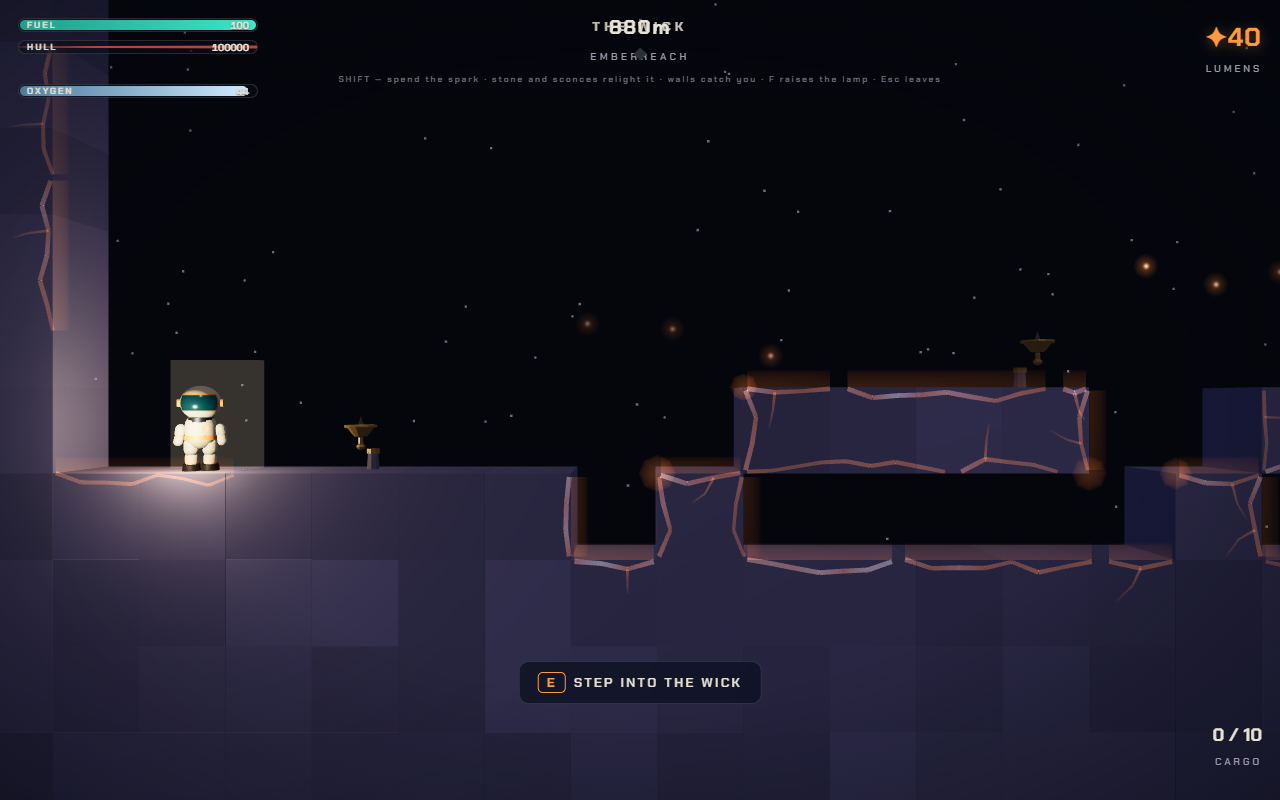
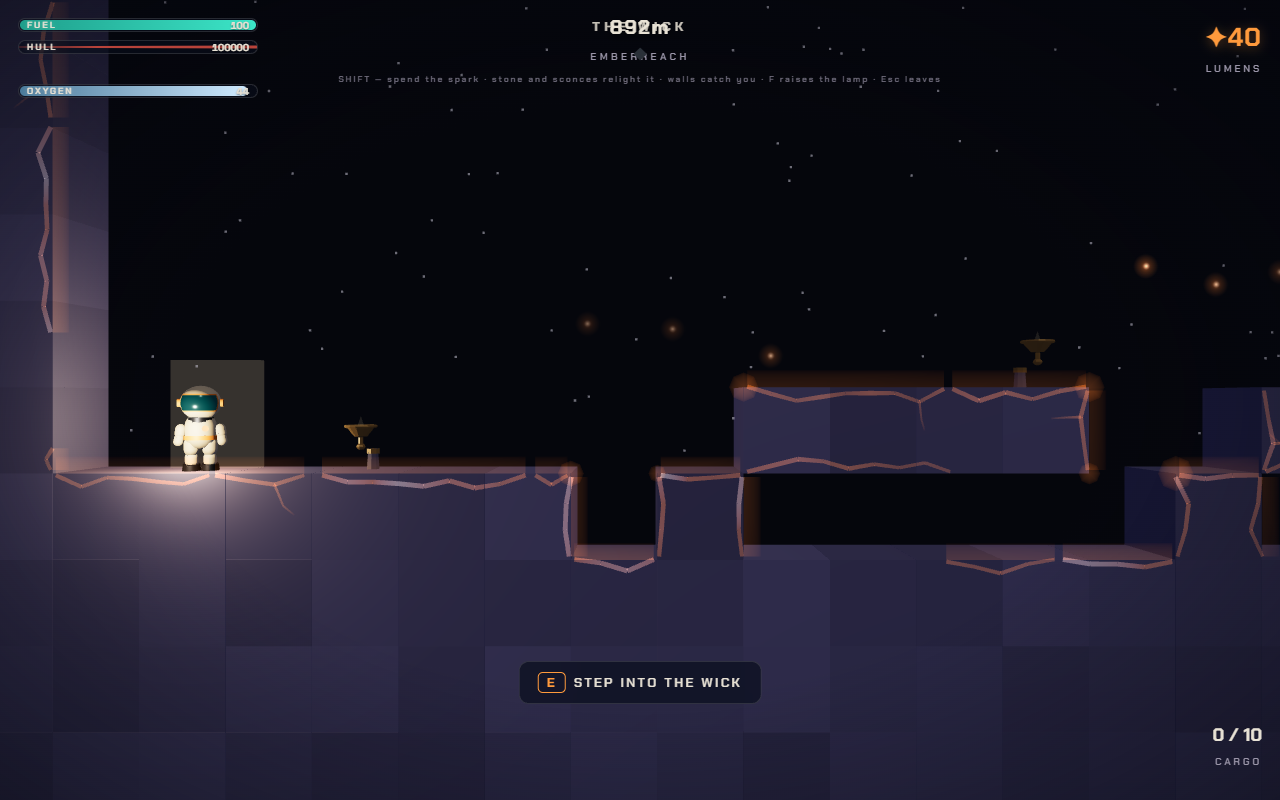
The teaching gap is forced, and the harness proves it
Adds the spark-disabled solve as an automatic gate: every graded room is
solved a second time with the scarce verb removed, and fails if the stone is
still reachable. For a tutorial this is the whole test — a room whose subject
is the spark must not be completable without it.

It immediately caught the rebuild committing the original's sin, three times
over. The recovery floor ran the length of the hall, so you could walk from
the entry to the chimney along the bottom and never cross the teaching gap. A
recovery step sat inside the gap's own span, which turned the basin into a
staircase up the far side. And after both were fixed the pit was still
climbable, because wall-jumps here are free and unlimited and any pit with a
wall beside it can be left on the wrong side.

The far lip is a cantilever now. Its supporting rock sits four columns back,
so the space under its left end has no face to kick off, and the lip caps
anyone who climbs at the support. With the spark disabled the lip, the drank
islands, the chimney, the reveal and the stone are all unreachable.

I would not have found any of the three by reading the map. The room looked
right and the harness was green before this check existed.

diff --git a/src/world/vaults.ts b/src/world/vaults.ts
@@ -280,10 +280,10 @@ export const VAULTS: VaultDef[] = [
       '#................................o.............#########',
       '#.............................ooo...===.ooo....#########',
       '#..................oooo....ooo..S#######...ooo.#########',
-      '#............ooo.......####..............##....#########',
-      '#......ooo..S...###............................#########',
-      '#.@.S....####..#.....#.....#....#....#.........#########',
-      '#######.#.....#.....#.....#....#....#..........#########',
+      '#............ooo.......####..........######....#########',
+      '#......ooo..S...###..................####......#########',
+      '#.@.S....####..#.....#.....#.........####......#########',
+      '#######.#.....#.....#.....#..........####......#########',
       '########################################################',
       '########################################################',
       '########################################################',

diff --git a/scripts/author-wick.py b/scripts/author-wick.py
@@ -57,9 +57,29 @@ carve(41, 3, 54, 10)        # the reveal, overlapping the chimney's top at
 # you walk to a step, you climb back. Uniform recovery is what lets the gaps
 # above it be honest.
 floor(30, 1, 46)
-for _sx in (8, 14, 20, 26, 31, 36):       # steps back up every few tiles, so
+# ...and every step is on the NEAR side of the teaching gap. A step at col 31
+# sits inside the gap's own span, which turns the recovery floor into a
+# staircase up the far side: the harness proved the far lip reachable with the
+# spark disabled, which is the whole lesson bypassed.
+for _sx in (8, 14, 20, 26):               # steps back up every few tiles, so
     floor(29, _sx, _sx)                   # a fall costs three tiles of walking
     floor(28, _sx + 1, _sx + 1)           # and not fifteen
+
+# THE BASIN MUST DEAD-END. A recovery floor that runs the length of the hall is
+# not a recovery, it is a bypass: the first cut of this room could be walked
+# from the entry to the chimney along the bottom without ever crossing the
+# teaching gap, which made the spark optional in the room whose subject is the
+# spark — the exact fault the rebuild exists to correct. The far lip's support
+# is solid to the floor, so a fall traps you and the only way out is back up
+# the steps to try the gap again.
+# The far lip is a CANTILEVER: its supporting rock sits at cols 37-40, so the
+# four columns under its left end are open air. Wall-jumps are free and
+# unlimited in this game, which means any pit with a wall beside it can be
+# climbed — the harness proved exactly that, twice. A climber in the basin can
+# only find a face at col 37, and the lip itself caps them at row 25. The only
+# way ONTO the lip is across the gap, which is the point of the gap.
+for _by in range(26, 30):
+    floor(_by, 37, 40)
 
 # ===========================================================================
 # CHAMBER A · cols 1-13 · INTRODUCE

diff --git a/docs/wick-slice.md b/docs/wick-slice.md
@@ -112,13 +112,39 @@ Every beat on the golden path, with its margin:
 | (41,11)→(51,8) | 9 | 1.65× | spark | 21f |
 
 **Read this carefully — it is not the intended line.** The harness's BFS
-minimises *beats*, so it finds the route that skips the most platforms, which
-is the spark-heavy expert line. That it exists at all is rule 6 satisfied (a
-greedy line is available in every chamber). But the *taught* line — the
-three-shelf chain in A, the wall climb in C — is longer in beats and therefore
-not what BFS returns.
+minimises *beats*, so it returns the route that skips the most platforms: the
+spark-heavy expert line. That it exists at all is rule 6 satisfied. The
+*taught* line — the three-shelf chain in A, the wall climb in C — is longer in
+beats and so is not what BFS returns.
 
-**Known gap:** the harness should also solve each room with the spark
-*disabled* to produce the safe line, and report the two side by side. That is
-exactly the test rule 6 specifies and it is not yet implemented. Until it is,
-"0 tight traversals" is a claim about the expert route only.
+## The spark gate, and the two bypasses it caught
+
+`npm run levels:verify` now solves every graded room a second time with the
+spark **disabled**, and fails the room if the stone is still reachable. This is
+rule 6's test, and for a tutorial it is *the* test: a room whose subject is the
+scarce verb must not be completable without it.
+
+It caught the rebuild doing exactly what the old WICK did — twice.
+
+1. **The recovery floor was a bypass.** A continuous floor under the hall let
+   you walk from the entry to the chimney along the bottom, never crossing the
+   teaching gap. The basin now dead-ends.
+2. **A recovery step was a staircase.** A step at col 31 sat *inside* the gap's
+   own span, so falling in and climbing out put you on the far side. Steps are
+   now only on the near side.
+3. **And the pit was climbable.** Wall-jumps are free and unlimited here, so
+   any pit with a wall beside it can be climbed out of on the wrong side — the
+   harness proved it after both fixes above. The far lip is now a
+   **cantilever**: its supporting rock sits at cols 37-40, so the columns under
+   its left end are open air with no face to kick off, and the lip itself caps
+   anyone who climbs at col 37.
+
+With the spark disabled the far lip, the drank islands, the chimney, the
+reveal and the stone are all unreachable. The gap is forced.
+
+```
+wick  GRADED  ... stone reached · spark FORCED · undecided 9t
+```
+
+That is the difference between a tutorial that teaches a verb and one that
+merely contains it, and I would not have found it by looking.
